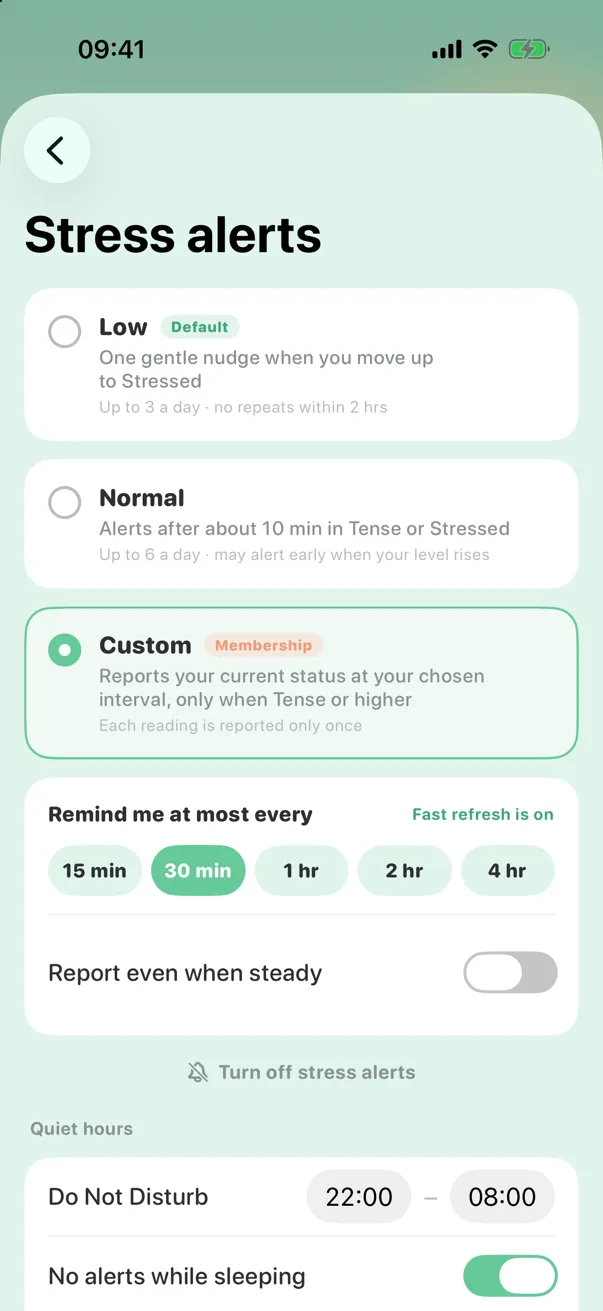
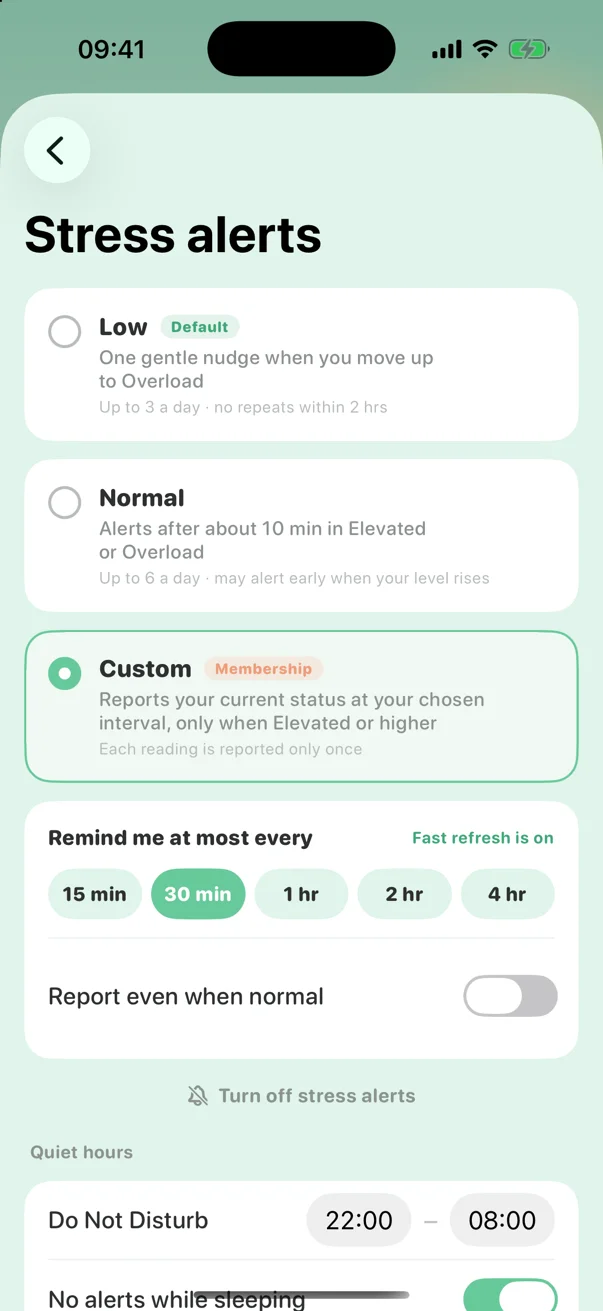
en: stress levels Great/Normal/Elevated/Overload, copy fixes; recaptured EN screenshots (Energy tab, new levels)

diff --git a/en/index.html b/en/index.html
@@ -10,18 +10,18 @@
 <button class="burger" aria-label="Menu" aria-controls="menu" aria-expanded="false"><span></span><span></span><span></span></button></div></header><main>
 <section class="hero"><div class="cloud c1"></div><div class="cloud c2"></div><div class="cloud c3"></div><div class="wrap hgrid"><div class="hin">
 <svg class="wx ld" style="--d:0" viewBox="0 0 64 44" aria-hidden="true"><circle cx="40" cy="16" r="11" fill="#FFD45C"/><path d="M14 40h30a10 10 0 0 0 1-19.9A13 13 0 0 0 20.5 24 8 8 0 0 0 14 40z" fill="#fff" stroke="#E3EFE8"/></svg>
-<p class="eyebrow ld" style="--d:0">Clairsy · HRV stress monitor for Apple Watch</p><h1 class="ld" style="--d:1">Your stress, like the <em>weather</em>.</h1><p class="comp ld" style="--d:2">Qingqing stays with you, learning you — your most understanding health companion.</p><p class="lead ld" style="--d:3">Clairsy reads heart rate variability and heart rate from your Apple Watch, compares them with your own baseline, and tells you how you're doing right now — Chill, Steady, Tense or Stressed. Qingqing changes with you. Everything is calculated on your iPhone and Apple Watch.</p>
+<p class="eyebrow ld" style="--d:0">Clairsy · HRV stress monitor for Apple Watch</p><h1 class="ld" style="--d:1">Your stress, like the <em>weather</em>.</h1><p class="comp ld" style="--d:2">Qingqing stays with you, getting to know you — a health companion that gets you.</p><p class="lead ld" style="--d:3">Clairsy reads heart rate variability and heart rate from your Apple Watch, compares them with your own baseline, and tells you how you're doing right now — Great, Normal, Elevated or Overload. Qingqing changes with you. Everything is calculated on your iPhone and Apple Watch.</p>
 <div class="cta ld" style="--d:4"><a class="appstore" href="https://apps.apple.com/"><img src="../assets/badge-en-us.svg?v=a26fc5b383" alt="Download on the App Store" height="48"></a><span class="free">Free: see your stress level and Daily Energy %.</span></div>
 <p class="req ld" style="--d:5">Requires iPhone with iOS 18 or later and a paired Apple Watch (watchOS 11 or later).</p></div>
 <div class="hvis"><div class="stage ld" style="--d:5"><div class="glow"></div>
-<div class="dev p1" data-px="-0.06"><img src="../assets/vigor-en.webp?v=d0a4bb5afe" alt="" width="603" height="1311"></div>
-<div class="dev p2" data-px="0"><img src="../assets/today-en.webp?v=27ea3ea22e" alt="Clairsy Today" width="603" height="1311"></div>
-<div class="dev wt" data-px="0.08"><img src="../assets/watch-en.webp?v=7646d3a049" alt="Clairsy on Apple Watch" width="416" height="496"></div>
+<div class="dev p1" data-px="-0.06"><img src="../assets/vigor-en.webp?v=c105740d5c" alt="" width="603" height="1311"></div>
+<div class="dev p2" data-px="0"><img src="../assets/today-en.webp?v=0098471fe0" alt="Clairsy Today" width="603" height="1311"></div>
+<div class="dev wt" data-px="0.08"><img src="../assets/watch-en.webp?v=d67c154252" alt="Clairsy on Apple Watch" width="416" height="496"></div>
 <img class="mas" src="../assets/qingqing.svg?v=ae6b4a3a9c" alt="" width="135" height="135"></div></div></div></section>
-<section id="features" class="feat"><div class="wrap sgrid"><div class="steps"><div class="rail" aria-hidden="true"><i></i></div><div class="step reveal" data-step="0"><div class="stept"><span class="n" aria-hidden="true">01</span><h3>Stress, plain and clear</h3></div><p>HRV and resting heart rate become four clear levels — Chill, Steady, Tense, Stressed — with a stress index and 7-day average. Quick mood check-ins calibrate it to how you actually feel.</p><div class="inl"><div class="duo"><div class="ph"><img src="../assets/today-en.webp?v=27ea3ea22e" alt="Clairsy Today" width="603" height="1311" loading="lazy"></div><div class="wa"><img src="../assets/watch-today-en.webp?v=5f43f5a680" alt="Clairsy Today on Apple Watch" width="416" height="496" loading="lazy"></div></div></div></div><div class="step reveal" data-step="1"><div class="stept"><span class="n" aria-hidden="true">02</span><h3>5-minute HRV refresh</h3></div><p>On Apple Watch Ultra 4 and Series 12, with Recovery HRV authorized, samples arrive about every 5 minutes and Clairsy switches to fast refresh — you’ll see it on Today as “Fast refresh · a few minutes ago.” Watch face and complications keep up as the system allows, usually within 15–30 minutes.</p><div class="inl"><div class="duo"><div class="ph"><img src="../assets/hrv-en.webp?v=294d4368a1" alt="Today · Fast refresh" width="603" height="1311" loading="lazy"></div><div class="wa"><img src="../assets/watch-status-en.webp?v=80fe1e797e" alt="Clairsy on Apple Watch" width="416" height="496" loading="lazy"></div></div></div></div><div class="step reveal" data-step="2"><div class="stept"><span class="n" aria-hidden="true">03</span><h3>Custom alert frequency</h3></div><p>Three stress-alert modes: Low (default) sends one gentle nudge when you move up to Stressed; Normal alerts after about 10 minutes in Tense or Stressed; Custom (Membership) reports your current status every 15 minutes to 4 hours. 15- and 30-minute intervals need a fast-refresh watch such as Series 12 or Ultra 4; on Series 11, Ultra 3 and earlier, Custom starts at 1 hour — or use Normal.</p><div class="inl"><div class="ph"><img src="../assets/alerts-en.webp?v=8a18800f85" alt="Stress alerts" width="603" height="1311" loading="lazy"></div></div></div><div class="step reveal" data-step="3"><div class="stept"><span class="n" aria-hidden="true">04</span><h3>Daily Energy drains</h3></div><p>Each morning Clairsy sets your Daily Energy from recovery, sleep and training load — then stress drains it through the day, so you can see how much you have left.</p><div class="inl"><div class="duo"><div class="ph"><img src="../assets/vigor-en.webp?v=d0a4bb5afe" alt="Daily Energy" width="603" height="1311" loading="lazy"></div><div class="wa"><img src="../assets/watch-vigor-en.webp?v=c22f17e995" alt="Daily Energy on Apple Watch" width="416" height="496" loading="lazy"></div></div></div></div><div class="step reveal" data-step="4"><div class="stept"><span class="n" aria-hidden="true">05</span><h3>Sleep at a glance</h3></div><p>Last night’s duration, sleep score, 7-night sleep debt and stages — deep, core, REM and awake — all free, with Qingqing suggesting a bedtime. Membership adds in-depth sleep analysis.</p><div class="inl"><div class="ph"><img src="../assets/sleep-en.webp?v=283b504065" alt="Sleep" width="603" height="1311" loading="lazy"></div></div></div><div class="step reveal" data-step="5"><div class="stept"><span class="n" aria-hidden="true">06</span><h3>Trends you can see</h3></div><p>Day, week and month views of your HRV against your baseline, a breakdown of time spent Chill, Steady, Tense and Stressed, and a stress heat map that shows when you tend to tense up. Trends are part of Clairsy Membership.</p><div class="inl"><div class="ph"><img src="../assets/trends-en.webp?v=13898853e0" alt="Trends" width="603" height="1311" loading="lazy"></div></div></div><div class="step reveal" data-step="6"><div class="stept"><span class="n" aria-hidden="true">07</span><h3>Breathe it down</h3></div><p>Resonance breathing (4 in, 6 out), cyclic sighing, 4-7-8 and box breathing, with Qingqing breathing along — on iPhone and Apple Watch. Before-and-after readings show what changed.</p><div class="inl"><div class="duo"><div class="ph"><img src="../assets/breath-en.webp?v=e8665a2bd9" alt="Breathing exercise" width="603" height="1311" loading="lazy"></div><div class="wa"><img src="../assets/watch-breath-en.webp?v=02ed8562ae" alt="Breathe on Apple Watch" width="416" height="496" loading="lazy"></div></div></div></div><div class="step reveal" data-step="7"><div class="stept"><span class="n" aria-hidden="true">08</span><h3>Your watch face keeps up</h3></div><p>Watch face and complications show your current level, with a one-tap “Measure now”, Home Screen widgets, and optional local stress alerts. On Ultra 4 and Series 12, fast refresh keeps it more current.</p><div class="inl"><div class="wa"><img src="../assets/watch-en.webp?v=7646d3a049" alt="Clairsy on Apple Watch" width="416" height="496" loading="lazy"></div></div></div></div><div class="sticky"><div class="devbox"><div class="frame on" data-frame="0"><div class="duo"><div class="ph"><img src="../assets/today-en.webp?v=27ea3ea22e" alt="Clairsy Today" width="603" height="1311" loading="lazy"></div><div class="wa"><img src="../assets/watch-today-en.webp?v=5f43f5a680" alt="Clairsy Today on Apple Watch" width="416" height="496" loading="lazy"></div></div></div><div class="frame" data-frame="1"><div class="duo"><div class="ph"><img src="../assets/hrv-en.webp?v=294d4368a1" alt="Today · Fast refresh" width="603" height="1311" loading="lazy"></div><div class="wa"><img src="../assets/watch-status-en.webp?v=80fe1e797e" alt="Clairsy on Apple Watch" width="416" height="496" loading="lazy"></div></div></div><div class="frame" data-frame="2"><div class="ph"><img src="../assets/alerts-en.webp?v=8a18800f85" alt="Stress alerts" width="603" height="1311" loading="lazy"></div></div><div class="frame" data-frame="3"><div class="duo"><div class="ph"><img src="../assets/vigor-en.webp?v=d0a4bb5afe" alt="Daily Energy" width="603" height="1311" loading="lazy"></div><div class="wa"><img src="../assets/watch-vigor-en.webp?v=c22f17e995" alt="Daily Energy on Apple Watch" width="416" height="496" loading="lazy"></div></div></div><div class="frame" data-frame="4"><div class="ph"><img src="../assets/sleep-en.webp?v=283b504065" alt="Sleep" width="603" height="1311" loading="lazy"></div></div><div class="frame" data-frame="5"><div class="ph"><img src="../assets/trends-en.webp?v=13898853e0" alt="Trends" width="603" height="1311" loading="lazy"></div></div><div class="frame" data-frame="6"><div class="duo"><div class="ph"><img src="../assets/breath-en.webp?v=e8665a2bd9" alt="Breathing exercise" width="603" height="1311" loading="lazy"></div><div class="wa"><img src="../assets/watch-breath-en.webp?v=02ed8562ae" alt="Breathe on Apple Watch" width="416" height="496" loading="lazy"></div></div></div><div class="frame" data-frame="7"><div class="wa"><img src="../assets/watch-en.webp?v=7646d3a049" alt="Clairsy on Apple Watch" width="416" height="496" loading="lazy"></div></div></div><div class="dots" aria-hidden="true"><i class="on"></i><i class=""></i><i class=""></i><i class=""></i><i class=""></i><i class=""></i><i class=""></i><i class=""></i></div></div></div></section>
+<section id="features" class="feat"><div class="wrap sgrid"><div class="steps"><div class="rail" aria-hidden="true"><i></i></div><div class="step reveal" data-step="0"><div class="stept"><span class="n" aria-hidden="true">01</span><h3>Stress, plain and clear</h3></div><p>HRV and resting heart rate become four clear levels — Great, Normal, Elevated, Overload — with a stress index and 7-day average. Quick mood check-ins calibrate it to how you actually feel.</p><div class="inl"><div class="duo"><div class="ph"><img src="../assets/today-en.webp?v=0098471fe0" alt="Clairsy Today" width="603" height="1311" loading="lazy"></div><div class="wa"><img src="../assets/watch-today-en.webp?v=5f43f5a680" alt="Clairsy Today on Apple Watch" width="416" height="496" loading="lazy"></div></div></div></div><div class="step reveal" data-step="1"><div class="stept"><span class="n" aria-hidden="true">02</span><h3>5-minute HRV refresh</h3></div><p>On Apple Watch Ultra 4 and Series 12, with Recovery HRV authorized, samples arrive about every 5 minutes and Clairsy switches to fast refresh — you’ll see it on Today as “Fast refresh · a few minutes ago.” Watch face and complications keep up as the system allows, usually within 15–30 minutes.</p><div class="inl"><div class="duo"><div class="ph"><img src="../assets/hrv-en.webp?v=711db39cfe" alt="Today · Fast refresh" width="603" height="1311" loading="lazy"></div><div class="wa"><img src="../assets/watch-status-en.webp?v=80fe1e797e" alt="Clairsy on Apple Watch" width="416" height="496" loading="lazy"></div></div></div></div><div class="step reveal" data-step="2"><div class="stept"><span class="n" aria-hidden="true">03</span><h3>Custom alert frequency</h3></div><p>Three stress-alert modes: Low (default) sends one gentle nudge when you move up to Overload; Normal alerts after about 10 minutes in Elevated or Overload; Custom (Membership) reports your current status every 15 minutes to 4 hours. 15- and 30-minute intervals need a fast-refresh watch such as Series 12 or Ultra 4; on Series 11, Ultra 3 and earlier, Custom starts at 1 hour — or use Normal.</p><div class="inl"><div class="ph"><img src="../assets/alerts-en.webp?v=3b4e01b3a4" alt="Stress alerts" width="603" height="1311" loading="lazy"></div></div></div><div class="step reveal" data-step="3"><div class="stept"><span class="n" aria-hidden="true">04</span><h3>Daily Energy drains</h3></div><p>Each morning Clairsy sets your Daily Energy from recovery, sleep and training load — then stress drains it through the day, so you can see how much you have left.</p><div class="inl"><div class="duo"><div class="ph"><img src="../assets/vigor-en.webp?v=c105740d5c" alt="Daily Energy" width="603" height="1311" loading="lazy"></div><div class="wa"><img src="../assets/watch-vigor-en.webp?v=c22f17e995" alt="Daily Energy on Apple Watch" width="416" height="496" loading="lazy"></div></div></div></div><div class="step reveal" data-step="4"><div class="stept"><span class="n" aria-hidden="true">05</span><h3>Sleep at a glance</h3></div><p>Last night’s duration, sleep score, 7-night sleep debt and stages — deep, core, REM and awake — all free, with Qingqing suggesting a bedtime. Membership adds in-depth sleep analysis.</p><div class="inl"><div class="ph"><img src="../assets/sleep-en.webp?v=5c2634cd5b" alt="Sleep" width="603" height="1311" loading="lazy"></div></div></div><div class="step reveal" data-step="5"><div class="stept"><span class="n" aria-hidden="true">06</span><h3>Trends you can see</h3></div><p>Day, week and month views of your HRV against your baseline, a breakdown of time spent Great, Normal, Elevated and Overload, and a stress heat map that shows when you tend to tense up. Trends are part of Clairsy Membership.</p><div class="inl"><div class="ph"><img src="../assets/trends-en.webp?v=e3e7e69584" alt="Trends" width="603" height="1311" loading="lazy"></div></div></div><div class="step reveal" data-step="6"><div class="stept"><span class="n" aria-hidden="true">07</span><h3>Breathe it out</h3></div><p>Resonance breathing (4 in, 6 out), cyclic sighing, 4-7-8 and box breathing, with Qingqing breathing along — on iPhone and Apple Watch. Before-and-after readings show what changed.</p><div class="inl"><div class="duo"><div class="ph"><img src="../assets/breath-en.webp?v=dd0da5266d" alt="Breathing exercise" width="603" height="1311" loading="lazy"></div><div class="wa"><img src="../assets/watch-breath-en.webp?v=02ed8562ae" alt="Breathe on Apple Watch" width="416" height="496" loading="lazy"></div></div></div></div><div class="step reveal" data-step="7"><div class="stept"><span class="n" aria-hidden="true">08</span><h3>Your watch face keeps up</h3></div><p>Watch face and complications show your current level, with a one-tap “Measure now”, Home Screen widgets, and optional local stress alerts. On Ultra 4 and Series 12, fast refresh keeps it more current.</p><div class="inl"><div class="wa"><img src="../assets/watch-en.webp?v=d67c154252" alt="Clairsy on Apple Watch" width="416" height="496" loading="lazy"></div></div></div></div><div class="sticky"><div class="devbox"><div class="frame on" data-frame="0"><div class="duo"><div class="ph"><img src="../assets/today-en.webp?v=0098471fe0" alt="Clairsy Today" width="603" height="1311" loading="lazy"></div><div class="wa"><img src="../assets/watch-today-en.webp?v=5f43f5a680" alt="Clairsy Today on Apple Watch" width="416" height="496" loading="lazy"></div></div></div><div class="frame" data-frame="1"><div class="duo"><div class="ph"><img src="../assets/hrv-en.webp?v=711db39cfe" alt="Today · Fast refresh" width="603" height="1311" loading="lazy"></div><div class="wa"><img src="../assets/watch-status-en.webp?v=80fe1e797e" alt="Clairsy on Apple Watch" width="416" height="496" loading="lazy"></div></div></div><div class="frame" data-frame="2"><div class="ph"><img src="../assets/alerts-en.webp?v=3b4e01b3a4" alt="Stress alerts" width="603" height="1311" loading="lazy"></div></div><div class="frame" data-frame="3"><div class="duo"><div class="ph"><img src="../assets/vigor-en.webp?v=c105740d5c" alt="Daily Energy" width="603" height="1311" loading="lazy"></div><div class="wa"><img src="../assets/watch-vigor-en.webp?v=c22f17e995" alt="Daily Energy on Apple Watch" width="416" height="496" loading="lazy"></div></div></div><div class="frame" data-frame="4"><div class="ph"><img src="../assets/sleep-en.webp?v=5c2634cd5b" alt="Sleep" width="603" height="1311" loading="lazy"></div></div><div class="frame" data-frame="5"><div class="ph"><img src="../assets/trends-en.webp?v=e3e7e69584" alt="Trends" width="603" height="1311" loading="lazy"></div></div><div class="frame" data-frame="6"><div class="duo"><div class="ph"><img src="../assets/breath-en.webp?v=dd0da5266d" alt="Breathing exercise" width="603" height="1311" loading="lazy"></div><div class="wa"><img src="../assets/watch-breath-en.webp?v=02ed8562ae" alt="Breathe on Apple Watch" width="416" height="496" loading="lazy"></div></div></div><div class="frame" data-frame="7"><div class="wa"><img src="../assets/watch-en.webp?v=d67c154252" alt="Clairsy on Apple Watch" width="416" height="496" loading="lazy"></div></div></div><div class="dots" aria-hidden="true"><i class="on"></i><i class=""></i><i class=""></i><i class=""></i><i class=""></i><i class=""></i><i class=""></i><i class=""></i></div></div></div></section>
 <section id="qingqing" class="meet"><div class="wrap"><div class="meetcard reveal">
 <div class="meetvis"><div class="meet-stage" aria-hidden="true"><img class="meet-face on" data-mood="chill" src="../assets/moods/chill.png?v=1ec6799918" alt="" width="220" height="220" loading="lazy"><img class="meet-face" data-mood="steady" src="../assets/moods/steady.png?v=08b04779e4" alt="" width="220" height="220" loading="lazy"><img class="meet-face" data-mood="tense" src="../assets/moods/tense.png?v=b3b451586a" alt="" width="220" height="220" loading="lazy"><img class="meet-face" data-mood="stressed" src="../assets/moods/stressed.png?v=03b7959c35" alt="" width="220" height="220" loading="lazy"></div>
-<div class="moods" role="group" aria-label="Meet Qingqing"><button type="button" class="mood on" data-mood="chill" aria-pressed="true"><img src="../assets/moods/chill.png?v=1ec6799918" alt="" width="56" height="56" loading="lazy"><span>Chill</span></button><button type="button" class="mood" data-mood="steady" aria-pressed="false"><img src="../assets/moods/steady.png?v=08b04779e4" alt="" width="56" height="56" loading="lazy"><span>Steady</span></button><button type="button" class="mood" data-mood="tense" aria-pressed="false"><img src="../assets/moods/tense.png?v=b3b451586a" alt="" width="56" height="56" loading="lazy"><span>Tense</span></button><button type="button" class="mood" data-mood="stressed" aria-pressed="false"><img src="../assets/moods/stressed.png?v=03b7959c35" alt="" width="56" height="56" loading="lazy"><span>Stressed</span></button></div></div>
+<div class="moods" role="group" aria-label="Meet Qingqing"><button type="button" class="mood on" data-mood="chill" aria-pressed="true"><img src="../assets/moods/chill.png?v=1ec6799918" alt="" width="56" height="56" loading="lazy"><span>Great</span></button><button type="button" class="mood" data-mood="steady" aria-pressed="false"><img src="../assets/moods/steady.png?v=08b04779e4" alt="" width="56" height="56" loading="lazy"><span>Normal</span></button><button type="button" class="mood" data-mood="tense" aria-pressed="false"><img src="../assets/moods/tense.png?v=b3b451586a" alt="" width="56" height="56" loading="lazy"><span>Elevated</span></button><button type="button" class="mood" data-mood="stressed" aria-pressed="false"><img src="../assets/moods/stressed.png?v=03b7959c35" alt="" width="56" height="56" loading="lazy"><span>Overload</span></button></div></div>
 <div class="meettxt"><h2>Meet Qingqing</h2><p>Qingqing is the little companion on your wrist. When your stress level changes, so does its expression. When you take a breather, it breathes with you. After check-ins, it learns you a little better. Not a coach — a companion.</p></div>
 </div></div></section>
 <section id="privacy" class="priv"><div class="wrap"><img class="shield reveal" src="../assets/icons/in-short-shield.svg?v=a273304543" alt="" width="56" height="56"><h2 class="reveal">Private by design.</h2><p class="lede reveal">Clairsy only reads the Health data you allow it to read, and does all of its calculations on your iPhone and Apple Watch. We have no servers. We never upload your data to us or to anyone else, and we never use it for advertising.</p>

diff --git a/build.py b/build.py
@@ -17,20 +17,20 @@ T = {
   name='English', title='Clairsy — Your stress, like the weather',
   nav=['Features','FAQ','Support','Privacy','Terms'],
   badge='Clairsy · HRV stress monitor for Apple Watch',
-  h1='Your stress, like the <em>weather</em>.', comp='Qingqing stays with you, learning you — your most understanding health companion.', sub='Reads your Apple Watch. Compared only to you. Stress and Daily Energy, live on your wrist.',
-  lead="Clairsy reads heart rate variability and heart rate from your Apple Watch, compares them with your own baseline, and tells you how you're doing right now — Chill, Steady, Tense or Stressed. Qingqing changes with you. Everything is calculated on your iPhone and Apple Watch.",
+  h1='Your stress, like the <em>weather</em>.', comp='Qingqing stays with you, getting to know you — a health companion that gets you.', sub='Reads your Apple Watch. Compared only to you. Stress and Daily Energy, live on your wrist.',
+  lead="Clairsy reads heart rate variability and heart rate from your Apple Watch, compares them with your own baseline, and tells you how you're doing right now — Great, Normal, Elevated or Overload. Qingqing changes with you. Everything is calculated on your iPhone and Apple Watch.",
   dl1='Download on the', dl2='App Store', free='Free: see your stress level and Daily Energy %.',
   req='Requires iPhone with iOS 18 or later and a paired Apple Watch (watchOS 11 or later).',
   shotnote='Screenshots from the current app (demo data).',
   trust=[('On-device only','No servers — nothing is uploaded'),('No account','No sign-up, no login'),('No tracking','No ads, no analytics SDKs'),('Read-only Health','Clairsy never writes to Health')],
   fk='FEATURES', fh='Built around your own baseline',
-  cards=[('Stress, plain and clear','HRV and resting heart rate become four clear levels — Chill, Steady, Tense, Stressed — with a stress index and 7-day average. Quick mood check-ins calibrate it to how you actually feel.'),
+  cards=[('Stress, plain and clear','HRV and resting heart rate become four clear levels — Great, Normal, Elevated, Overload — with a stress index and 7-day average. Quick mood check-ins calibrate it to how you actually feel.'),
          ('5-minute HRV refresh','On Apple Watch Ultra 4 and Series 12, with Recovery HRV authorized, samples arrive about every 5 minutes and Clairsy switches to fast refresh — you’ll see it on Today as “Fast refresh · a few minutes ago.” Watch face and complications keep up as the system allows, usually within 15–30 minutes.'),
-         ('Custom alert frequency','Three stress-alert modes: Low (default) sends one gentle nudge when you move up to Stressed; Normal alerts after about 10 minutes in Tense or Stressed; Custom (Membership) reports your current status every 15 minutes to 4 hours. 15- and 30-minute intervals need a fast-refresh watch such as Series 12 or Ultra 4; on Series 11, Ultra 3 and earlier, Custom starts at 1 hour — or use Normal.'),
+         ('Custom alert frequency','Three stress-alert modes: Low (default) sends one gentle nudge when you move up to Overload; Normal alerts after about 10 minutes in Elevated or Overload; Custom (Membership) reports your current status every 15 minutes to 4 hours. 15- and 30-minute intervals need a fast-refresh watch such as Series 12 or Ultra 4; on Series 11, Ultra 3 and earlier, Custom starts at 1 hour — or use Normal.'),
          ('Daily Energy drains','Each morning Clairsy sets your Daily Energy from recovery, sleep and training load — then stress drains it through the day, so you can see how much you have left.'),
          ('Sleep at a glance','Last night’s duration, sleep score, 7-night sleep debt and stages — deep, core, REM and awake — all free, with Qingqing suggesting a bedtime. Membership adds in-depth sleep analysis.'),
-         ('Trends you can see','Day, week and month views of your HRV against your baseline, a breakdown of time spent Chill, Steady, Tense and Stressed, and a stress heat map that shows when you tend to tense up. Trends are part of Clairsy Membership.'),
-         ('Breathe it down','Resonance breathing (4 in, 6 out), cyclic sighing, 4-7-8 and box breathing, with Qingqing breathing along — on iPhone and Apple Watch. Before-and-after readings show what changed.'),
+         ('Trends you can see','Day, week and month views of your HRV against your baseline, a breakdown of time spent Great, Normal, Elevated and Overload, and a stress heat map that shows when you tend to tense up. Trends are part of Clairsy Membership.'),
+         ('Breathe it out','Resonance breathing (4 in, 6 out), cyclic sighing, 4-7-8 and box breathing, with Qingqing breathing along — on iPhone and Apple Watch. Before-and-after readings show what changed.'),
          ('Your watch face keeps up','Watch face and complications show your current level, with a one-tap “Measure now”, Home Screen widgets, and optional local stress alerts. On Ultra 4 and Series 12, fast refresh keeps it more current.')],
   mh='Free to start, membership when you want more',
   mb='Free: the Today page — stress level, HRV and Daily Energy % — plus sleep duration, score, sleep debt and stages, breathing exercises, Home Screen widgets, free complications and one basic watch face. Clairsy Membership unlocks trends, Daily Energy details, in-depth sleep analysis, custom stress-alert frequency, and all complications and watch faces. Choose a monthly or yearly subscription (7-day free trial for eligible Apple IDs) or Lifetime (one-time purchase). All purchases are handled by Apple; prices are shown on the App Store purchase sheet.',
@@ -209,7 +209,7 @@ X={'en':dict(
           ('On your wrist','Check-ins help it learn you; a soft nudge when stress rises.')],
   meet_h='Meet Qingqing',
   meet_p='Qingqing is the little companion on your wrist. When your stress level changes, so does its expression. When you take a breather, it breathes with you. After check-ins, it learns you a little better. Not a coach — a companion.',
-  moods=[('chill','Chill'),('steady','Steady'),('tense','Tense'),('stressed','Stressed')],
+  moods=[('chill','Great'),('steady','Normal'),('tense','Elevated'),('stressed','Overload')],
   priv_h='Private by design.',
   priv_p='Clairsy only reads the Health data you allow it to read, and does all of its calculations on your iPhone and Apple Watch. We have no servers. We never upload your data to us or to anyone else, and we never use it for advertising.',
   priv_link='Read the Privacy Policy ›', breath_alt='Breathing exercise', sleep_alt='Sleep', trends_alt='Trends', hrv_alt='Today · Fast refresh', alerts_alt='Stress alerts'),
